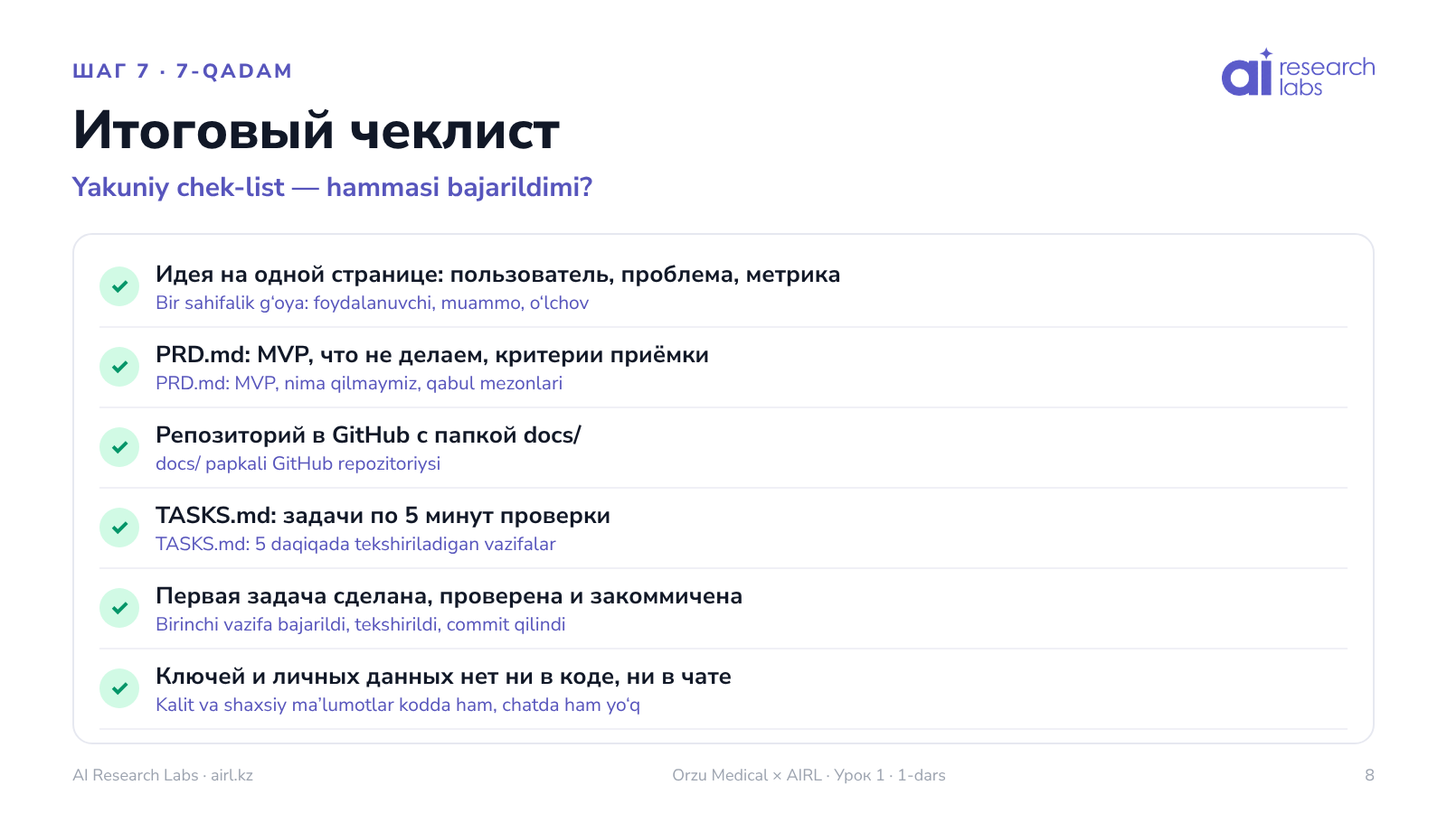
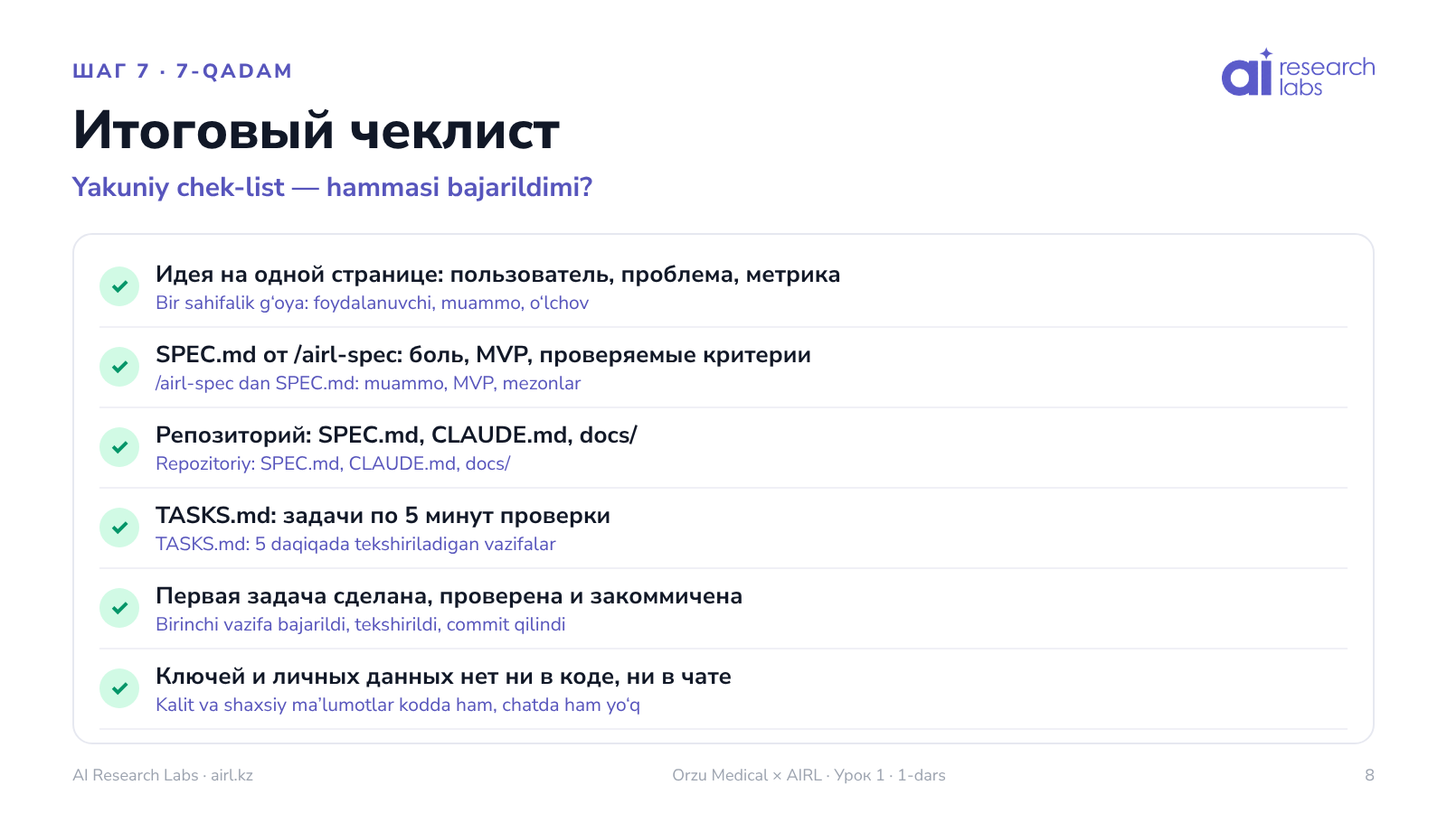
Orzu lesson 1: /airl-spec as the PRD tool; goal/how/result on every step
- Step 2 is built on /airl-spec: what it does and why it gives a real
  PRD (pain and its cost first, one question at a time with options,
  verifiable criteria, 'decided by default', special health data), how
  to install and run it, its real question format and a SPEC.md excerpt.
- Structure follows the AIRL skills: SPEC.md and ARCHITECTURE.md stay in
  the project root (later skills read them there), CLAUDE.md holds the
  agent rules, docs/ holds IDEA.md and TASKS.md. Slides updated.
- A lesson map at the start; every step states its goal, how and the
  resulting file. Accepted exercises show 'Ответ принят'.

Claude-Session: https://claude.ai/code/session_01R4xGES8mrcLgXzJP7i52hx

Changed region(s): [[0.0938, 0.4044, 0.5625, 0.4978], [0.0938, 0.5289, 0.4375, 0.5911]]

diff --git a/apps/api/src/db/workbook-orzu-week1.ts b/apps/api/src/db/workbook-orzu-week1.ts
@@ -1,8 +1,8 @@
 /**
  * ORZU MEDICAL × AIRL · Урок 1 «Строим мини-проект с ИИ за 7 шагов».
  *
- * Example project: a clinic request tracker. Each step = slide + plain-
- * language explanation + the real prompts and files (IDEA.md, PRD.md,
+ * Example project: a clinic request tracker. Each step = slide + goal / how /
+ * result + the real prompts and files (IDEA.md, SPEC.md from /airl-spec,
  * TASKS.md) + exercises. Every block is bilingual: Russian first, Uzbek
  * (Latin script) below.
  *
@@ -83,11 +83,16 @@ const btn = (label: string, href: string): SeedBlock => ({
 
 export const ORZU_WEEK1_WORKBOOK: SeedBlock[] = [
   // ═══════════════════════════════════════════════════════════════════
-  // СТАРТ · о чём урок, перевод, правила
+  // СТАРТ · о чём урок, карта урока, перевод, правила
   // ═══════════════════════════════════════════════════════════════════
   t(
-    'ORZU MEDICAL × AIRL · УРОК 1\nСтроим мини-проект с ИИ за 7 шагов\n\nСегодня на простом примере — **трекере заявок клиники** — пройдём весь путь: от идеи на одной странице до первой задачи, которую сделает ИИ-агент. Программировать уметь не нужно: мы показываем настоящие промпты и файлы, а вы повторяете за нами в своём проекте.\n\nПосле каждого шага — короткое упражнение. Пишете ответ, нажимаете «Отправить» — блок отмечается «Сдано ✓».',
-    'ORZU MEDICAL × AIRL · 1-DARS\nSunʼiy intellekt bilan mini-loyiha — 7 qadamda\n\nBugun oddiy misolda — **klinika arizalari trekeri** — butun yoʻlni bosib oʻtamiz: bir sahifalik gʻoyadan SI-agent bajaradigan birinchi vazifagacha. Dasturlashni bilish shart emas: biz haqiqiy promptlar va fayllarni koʻrsatamiz, siz esa oʻz loyihangizda takrorlaysiz.\n\nHar bir qadamdan keyin — qisqa mashq. Javob yozasiz, «Yuborish»ni bosasiz — blok «Topshirildi ✓» deb belgilanadi.',
+    'ORZU MEDICAL × AIRL · УРОК 1\nСтроим мини-проект с ИИ за 7 шагов\n\nНа простом примере — **трекере заявок клиники** — пройдём весь путь: от идеи на одной странице до первой задачи, которую сделает ИИ-агент. Программировать уметь не нужно: показываем настоящие промпты и файлы, вы повторяете их в своём проекте.\n\n**Главный инструмент урока — навык /airl-spec:** он превращает вашу задачу в настоящий PRD (файл SPEC.md), по которому дальше работает агент.',
+    'ORZU MEDICAL × AIRL · 1-DARS\nSunʼiy intellekt bilan mini-loyiha — 7 qadamda\n\nOddiy misolda — **klinika arizalari trekeri** — butun yoʻlni bosib oʻtamiz: bir sahifalik gʻoyadan SI-agent bajaradigan birinchi vazifagacha. Dasturlashni bilish shart emas: haqiqiy promptlar va fayllarni koʻrsatamiz, siz ularni oʻz loyihangizda takrorlaysiz.\n\n**Darsning asosiy vositasi — /airl-spec koʻnikmasi:** u vazifangizni haqiqiy PRD ga (SPEC.md fayli) aylantiradi, keyin agent shu fayl boʻyicha ishlaydi.',
+    'agenda',
+  ),
+  t(
+    'КАРТА УРОКА · что получится на каждом шаге\n1. **Идея на одну страницу** → docs/IDEA.md\n2. **Мини-PRD с /airl-spec** → SPEC.md и ARCHITECTURE.md\n3. **Подготовка проекта** → репозиторий GitHub, CLAUDE.md, папка docs/\n4. **План и маленькие задачи** → docs/TASKS.md\n5. **Первый цикл с агентом** → первая готовая функция и commit\n6. **Типичные ошибки** → как их не допустить\n7. **Итоговый чеклист** → всё ли готово к следующему уроку\n\n**Как сдавать упражнения:** напишите ответ и нажмите «Отправить». Выбор и оценка отправляются сразу при нажатии; в проверочных вопросах выберите вариант и нажмите «Проверить». Чеклист сдаётся, когда отмечены все пункты. Принятое упражнение отмечается зелёной галочкой **«Ответ принят»** — тренер видит ответ сразу.',
+    'DARS XARITASI · har bir qadamda nima chiqadi\n1. **Bir sahifalik gʻoya** → docs/IDEA.md\n2. **/airl-spec bilan mini-PRD** → SPEC.md va ARCHITECTURE.md\n3. **Loyihani tayyorlash** → GitHub repozitoriysi, CLAUDE.md, docs/ papkasi\n4. **Reja va kichik vazifalar** → docs/TASKS.md\n5. **Agent bilan birinchi sikl** → birinchi tayyor funksiya va commit\n6. **Koʻp uchraydigan xatolar** → ulardan qanday qochish\n7. **Yakuniy chek-list** → keyingi darsga hammasi tayyormi\n\n**Mashqlarni qanday topshirish:** javob yozing va «Yuborish»ni bosing. Tanlov va baho bosilganda darhol yuboriladi; tekshiruv savollarida variantni tanlab «Tekshirish»ni bosing. Chek-list barcha bandlar belgilanganda topshiriladi. Qabul qilingan mashq yashil belgi **«Javob qabul qilindi»** bilan belgilanadi — trener javobni darhol koʻradi.',
     'agenda',
   ),
   t(
@@ -101,8 +106,8 @@ export const ORZU_WEEK1_WORKBOOK: SeedBlock[] = [
   btn('Открыть Tilmoch · Tilmochni ochish', TILMOCH_URL),
   img('tilmoch-qr.png', 'QR-код Tilmoch · Tilmoch QR-kodi — tilmoch-eight.vercel.app'),
   t(
-    'КАК ПРОХОДИТ УРОК\n1. **Видеосвязь** подключается автоматически, когда её запускает преподаватель. Микрофон и камера выключены — включите, когда дадут слово. При прокрутке видео остаётся в углу экрана.\n2. **Вопросы** — во вкладке «Вопросы»: задайте свой и поддержите ▲ вопросы коллег.\n3. **Упражнения** — пишите ответ прямо здесь и нажимайте «Отправить».\n4. **Безопасность:** никогда не вставляйте в чат с ИИ пароли, ключи и данные пациентов.',
-    'DARS QANDAY OʻTADI\n1. **Videoaloqa** oʻqituvchi boshlaganda avtomatik ulanadi. Mikrofon va kamera oʻchiq — soʻz berilganda yoqing. Sahifani aylantirganda video ekran burchagida qoladi.\n2. **Savollar** — «Savollar» boʻlimida: oʻz savolingizni bering va hamkasblar savollariga ▲ ovoz bering.\n3. **Mashqlar** — javobni shu yerda yozing va «Yuborish»ni bosing.\n4. **Xavfsizlik:** SI chatiga hech qachon parollar, kalitlar va bemorlar maʼlumotlarini qoʻymang.',
+    'КАК ПРОХОДИТ УРОК\n1. **Видеосвязь** подключается автоматически, когда её запускает преподаватель. Микрофон и камера выключены — включите, когда дадут слово. При прокрутке видео остаётся в углу экрана.\n2. **Вопросы** — во вкладке «Вопросы»: задайте свой и поддержите ▲ вопросы коллег.\n3. **Безопасность:** никогда не вставляйте в чат с ИИ пароли, ключи и данные пациентов.',
+    'DARS QANDAY OʻTADI\n1. **Videoaloqa** oʻqituvchi boshlaganda avtomatik ulanadi. Mikrofon va kamera oʻchiq — soʻz berilganda yoqing. Sahifani aylantirganda video ekran burchagida qoladi.\n2. **Savollar** — «Savollar» boʻlimida: oʻz savolingizni bering va hamkasblar savollariga ▲ ovoz bering.\n3. **Xavfsizlik:** SI chatiga hech qachon parollar, kalitlar va bemorlar maʼlumotlarini qoʻymang.',
   ),
   img('step-0.png', 'Строим мини-проект с ИИ — 7 шагов · Sunʼiy intellekt bilan mini-loyiha — 7 qadam'),
 
@@ -111,20 +116,20 @@ export const ORZU_WEEK1_WORKBOOK: SeedBlock[] = [
   // ═══════════════════════════════════════════════════════════════════
   img('step-1.png', 'Шаг 1 · Идея на одну страницу · 1-qadam · Bir sahifalik gʻoya'),
   t(
-    'ШАГ 1 · ИДЕЯ НА ОДНУ СТРАНИЦУ\nПрежде чем просить ИИ что-то сделать, ответьте на три вопроса:\n• **Пользователь** — кто будет пользоваться? Конкретная роль, а не «все».\n• **Проблема** — что сейчас неудобно или теряется?\n• **Метрика успеха** — по какой цифре поймём, что стало лучше?\n\nЕсли ответ не помещается на одну страницу — идея слишком большая для первого проекта. Урежьте её.',
-    '1-QADAM · BIR SAHIFALIK GʻOYA\nSI dan biror narsa soʻrashdan oldin uchta savolga javob bering:\n• **Foydalanuvchi** — kim foydalanadi? «Hamma» emas, aniq rol.\n• **Muammo** — hozir nima noqulay yoki nima yoʻqoladi?\n• **Muvaffaqiyat oʻlchovi** — yaxshilanganini qaysi raqam bilan bilamiz?\n\nJavob bir sahifaga sigʻmasa — gʻoya birinchi loyiha uchun juda katta. Uni qisqartiring.',
+    'ШАГ 1 · ИДЕЯ НА ОДНУ СТРАНИЦУ\n**Цель:** понять, что именно мы строим и зачем, — до того как просить ИИ что-то делать.\n**Как:** отвечаем на три вопроса — **пользователь** (конкретная роль, а не «все»), **проблема** (что сейчас теряется или делается руками), **метрика успеха** (по какой цифре поймём, что стало лучше).\n**Результат шага:** файл docs/IDEA.md — не больше 15 строк. Не помещается на страницу — идея слишком большая для первого проекта, урежьте её.\n\nЭти же ответы понадобятся на шаге 2: /airl-spec начинает именно с них.',
+    '1-QADAM · BIR SAHIFALIK GʻOYA\n**Maqsad:** SI dan biror narsa soʻrashdan oldin aynan nima va nima uchun qurayotganimizni tushunish.\n**Qanday:** uchta savolga javob beramiz — **foydalanuvchi** («hamma» emas, aniq rol), **muammo** (hozir nima yoʻqoladi yoki qoʻlda qilinadi), **muvaffaqiyat oʻlchovi** (yaxshilanganini qaysi raqam bilan bilamiz).\n**Qadam natijasi:** docs/IDEA.md fayli — 15 qatordan oshmasin. Sahifaga sigʻmasa — gʻoya birinchi loyiha uchun juda katta, uni qisqartiring.\n\nShu javoblar 2-qadamda kerak boʻladi: /airl-spec aynan ulardan boshlaydi.',
   ),
   t(
     'ПРОМПТ · копируйте в чат с Claude\nПомоги мне описать идею мини-проекта на одну страницу. Задавай мне вопросы по одному, пока не узнаешь: кто пользователь, какую проблему решаем и по какой метрике поймём, что стало лучше. Потом собери ответ в файл docs/IDEA.md: заголовок, три раздела, не больше 15 строк. Пиши простым языком, без технических терминов.',
-    'PROMPT · Claude chatiga nusxalang\nMenga mini-loyiha gʻoyasini bir sahifada tasvirlashga yordam ber. Foydalanuvchi kimligini, qaysi muammoni hal qilishimizni va yaxshilanganini qaysi oʻlchov bilan bilishimizni aniqlamaguningizcha savollarni bittadan ber. Keyin javobni docs/IDEA.md fayliga yigʻ: sarlavha, uchta boʻlim, 15 qatordan oshmasin. Oddiy tilda, texnik atamalarsiz yoz.',
+    'PROMPT · Claude chatiga nusxalang\nMenga mini-loyiha gʻoyasini bir sahifada tasvirlashga yordam ber. Foydalanuvchi kimligini, qaysi muammoni hal qilishimizni va yaxshilanganini qaysi oʻlchov bilan bilishimizni aniqlamaguningcha savollarni bittadan ber. Keyin javobni docs/IDEA.md fayliga yigʻ: sarlavha, uchta boʻlim, 15 qatordan oshmasin. Oddiy tilda, texnik atamalarsiz yoz.',
   ),
   t(
     'ФАЙЛ · docs/IDEA.md — что получилось у нас\n# Трекер заявок клиники\nПользователь: администратор call-центра.\nПроблема: заявки приходят в WhatsApp, Instagram и по телефону, записываются в тетрадь и теряются.\nМетрика успеха: каждая заявка получает ответ за 15 минут; ни одна не потеряна.',
     'FAYL · docs/IDEA.md — bizda nima chiqdi\n# Klinika arizalari trekeri\nFoydalanuvchi: call-markaz administratori.\nMuammo: arizalar WhatsApp, Instagram va telefon orqali keladi, daftarga yoziladi va yoʻqoladi.\nMuvaffaqiyat oʻlchovi: har bir arizaga 15 daqiqada javob beriladi; birortasi ham yoʻqolmaydi.',
   ),
   ask(
-    'Упражнение 1.1 · Кто пользователь вашего мини-проекта?',
-    '1.1-mashq · Mini-loyihangiz foydalanuvchisi kim?',
+    'Упражнение 1.1 · Кто пользователь вашего мини-проекта? Конкретная роль',
+    '1.1-mashq · Mini-loyihangiz foydalanuvchisi kim? Aniq rol',
   ),
   ask(
     'Упражнение 1.2 · Какую проблему он решает? Одной-двумя фразами',
@@ -136,42 +141,62 @@ export const ORZU_WEEK1_WORKBOOK: SeedBlock[] = [
   ),
 
   // ═══════════════════════════════════════════════════════════════════
-  // ШАГ 2 · МИНИ-PRD ВМЕСТЕ С ИИ
+  // ШАГ 2 · МИНИ-PRD С /airl-spec
   // ═══════════════════════════════════════════════════════════════════
-  img('step-2.png', 'Шаг 2 · Мини-PRD вместе с ИИ · 2-qadam · SI bilan mini-PRD'),
+  img('step-2.png', 'Шаг 2 · Мини-PRD с /airl-spec · 2-qadam · /airl-spec bilan mini-PRD'),
   t(
-    'ШАГ 2 · МИНИ-PRD ВМЕСТЕ С ИИ\nPRD — это короткое техническое задание: что именно строим. В нём три части:\n• **MVP** — самый маленький набор функций, который уже полезен.\n• **Что НЕ делаем** — список, который защищает проект от разрастания.\n• **Критерии приёмки** — как проверить, что готово. Без них агент не знает, когда остановиться.\n\nИИ пишет черновик — вы вычёркиваете лишнее и решаете.',
-    '2-QADAM · SI BILAN MINI-PRD\nPRD — qisqa texnik topshiriq: aynan nimani quramiz. Unda uch qism bor:\n• **MVP** — allaqachon foydali boʻlgan eng kichik funksiyalar toʻplami.\n• **Nima QILMAYMIZ** — loyihani kengayib ketishdan saqlaydigan roʻyxat.\n• **Qabul qilish mezonlari** — tayyorligini qanday tekshirish. Ularsiz agent qachon toʻxtashni bilmaydi.\n\nSI qoralama yozadi — siz ortiqchasini oʻchirasiz va qaror qilasiz.',
+    'ШАГ 2 · МИНИ-PRD С /airl-spec\n**Цель:** получить настоящий PRD — документ, по которому продукт собирают в IT-командах. В AIRL он называется **SPEC.md**.\n**Как:** запускаем навык /airl-spec и отвечаем на его вопросы. Он ведёт разговор сам — нужно только честно отвечать.\n**Результат шага:** SPEC.md (PRD) и ARCHITECTURE.md (схема и технологии) в корне проекта.',
+    '2-QADAM · /airl-spec BILAN MINI-PRD\n**Maqsad:** haqiqiy PRD olish — IT-jamoalarda mahsulot shu hujjat boʻyicha yigʻiladi. AIRL da u **SPEC.md** deb ataladi.\n**Qanday:** /airl-spec koʻnikmasini ishga tushiramiz va uning savollariga javob beramiz. U suhbatni oʻzi olib boradi — faqat halol javob berish kerak.\n**Qadam natijasi:** loyiha ildizida SPEC.md (PRD) va ARCHITECTURE.md (sxema va texnologiyalar).',
   ),
   t(
-    'ПРОМПТ · копируйте в чат с Claude\nВот моя идея из docs/IDEA.md: [вставьте текст]. Напиши мини-PRD в файл docs/PRD.md. Разделы: 1) MVP — не больше 3 функций; 2) Что НЕ делаем в первой версии; 3) Критерии приёмки — проверяемые фразы вида «Пользователь может…»; 4) Правила для агента: делать одну задачу за раз, не добавлять функции вне MVP, не хранить ключи и пароли в коде. Пиши коротко и простым языком. Если чего-то не хватает — сначала спроси меня.',
-    'PROMPT · Claude chatiga nusxalang\nMana docs/IDEA.md dagi gʻoyam: [matnni qoʻying]. docs/PRD.md fayliga mini-PRD yoz. Boʻlimlar: 1) MVP — 3 tadan koʻp boʻlmagan funksiya; 2) Birinchi versiyada nima QILMAYMIZ; 3) Qabul qilish mezonlari — «Foydalanuvchi … qila oladi» koʻrinishidagi tekshiriladigan jumlalar; 4) Agent uchun qoidalar: bir vaqtda bitta vazifa, MVP dan tashqari funksiya qoʻshmaslik, kalit va parollarni kodda saqlamaslik. Qisqa va oddiy tilda yoz. Biror narsa yetishmasa — avval mendan soʻra.',
+    'ЧЕМ /airl-spec ЛУЧШЕ, ЧЕМ «НАПИШИ МНЕ ТЗ»\n• **Начинает с боли и её цены в цифрах**, а не с экранов: «сейчас я делаю X, и это стоит Y». Эта цифра — ваше «было» для Demo Day.\n• **Вопросы по одному**, к каждому варианты A–D и рекомендация. Отвечать можно одной буквой; «не знаю» — он возьмёт рекомендацию и скажет об этом.\n• **Не принимает размытые ответы** вроде «чтобы было удобно» — переспросит на примере.\n• **Критерии готовности проверяемые** действием или числом: не «удобный интерфейс», а «заявка создаётся за 30 секунд».\n• **Ничего не решает молча:** всё, что выбрал за вас, выписывает в раздел «Решено по умолчанию».\n• **Знает про закон и данные:** факт обращения в клинику — это особые данные о здоровье, и он сразу скажет, что это значит для проекта.\n• **SPEC.md читают следующие навыки** (/airl-dwh, /airl-pwa и другие) — объяснять задачу заново не придётся.\n• **Код не пишет** — только документы. Код будет на шаге 5.',
+    'NIMA UCHUN /airl-spec «MENGA TZ YOZ» DAN YAXSHIROQ\n• **Ekranlardan emas, muammo va uning raqamdagi narxidan boshlaydi:** «hozir men X qilaman va bu Y ga tushadi». Bu raqam — Demo Day uchun «oldin» holatingiz.\n• **Savollar bittadan**, har biriga A–D variantlar va tavsiya. Bitta harf bilan javob berish mumkin; «bilmayman» — u tavsiyani oladi va buni aytadi.\n• **«Qulay boʻlsin» kabi noaniq javoblarni qabul qilmaydi** — misol orqali qayta soʻraydi.\n• **Tayyorlik mezonlari tekshiriladigan** — harakat yoki raqam bilan: «qulay interfeys» emas, «ariza 30 soniyada yaratiladi».\n• **Hech narsani jimgina hal qilmaydi:** siz uchun tanlaganini «Standart boʻyicha hal qilindi» boʻlimiga yozadi.\n• **Qonun va maʼlumotlarni biladi:** klinikaga murojaat fakti — sogʻliq haqidagi maxsus maʼlumot, u buning loyiha uchun nimani anglatishini darhol aytadi.\n• **SPEC.md ni keyingi koʻnikmalar oʻqiydi** (/airl-dwh, /airl-pwa va boshqalar) — vazifani qayta tushuntirish kerak boʻlmaydi.\n• **Kod yozmaydi** — faqat hujjatlar. Kod 5-qadamda boʻladi.',
   ),
   t(
-    'ФАЙЛ · docs/PRD.md — что получилось у нас\n# PRD · Трекер заявок\n## MVP\n1. Форма «Новая заявка»: имя, телефон, источник.\n2. Список заявок со статусами: новая → в работе → записан / отказ.\n3. У каждой заявки есть ответственный.\n## Что НЕ делаем\nОплату, интеграцию с 1С, мобильное приложение, SMS.\n## Критерии приёмки\n• Администратор создаёт заявку меньше чем за 30 секунд.\n• Статус меняется в один клик.\n• Видно, кто отвечает за каждую заявку.\n## Правила для агента\nОдна задача за раз. Ничего вне MVP. Никаких ключей и паролей в коде.',
-    'FAYL · docs/PRD.md — bizda nima chiqdi\n# PRD · Arizalar trekeri\n## MVP\n1. «Yangi ariza» shakli: ism, telefon, manba.\n2. Holatli arizalar roʻyxati: yangi → ishda → yozildi / rad etildi.\n3. Har bir arizaning masʼul xodimi bor.\n## Nima QILMAYMIZ\nToʻlov, 1C bilan integratsiya, mobil ilova, SMS.\n## Qabul qilish mezonlari\n• Administrator arizani 30 soniyadan kamroq vaqtda yaratadi.\n• Holat bir bosishda oʻzgaradi.\n• Har bir ariza uchun kim masʼulligi koʻrinadi.\n## Agent uchun qoidalar\nBir vaqtda bitta vazifa. MVP dan tashqari hech narsa. Kodda kalit va parollar yoʻq.',
+    'КАК ЗАПУСТИТЬ /airl-spec\n1. Откройте в VS Code пустую папку проекта (например, tracker-zayavok).\n2. В панели Claude наберите /airl — появится список навыков AIRL. Списка нет — навыки не установлены: выполните команды ниже в терминале VS Code и перезагрузите окно.\n3. Запустите навык одной строкой с идеей из шага 1.',
+    '/airl-spec NI QANDAY ISHGA TUSHIRISH\n1. VS Code da loyihaning boʻsh papkasini oching (masalan, tracker-zayavok).\n2. Claude panelida /airl ni tering — AIRL koʻnikmalari roʻyxati chiqadi. Roʻyxat yoʻq — koʻnikmalar oʻrnatilmagan: quyidagi buyruqlarni VS Code terminalida bajaring va oynani qayta yuklang.\n3. Koʻnikmani 1-qadamdagi gʻoya bilan bitta qatorda ishga tushiring.',
+  ),
+  t(
+    'ФАЙЛ · установка навыков AIRL (один раз, в терминале VS Code)\nclaude plugin marketplace add aza9908/airl-skills\nclaude plugin install airl@airl-skills',
+    'FAYL · AIRL koʻnikmalarini oʻrnatish (bir marta, VS Code terminalida)\nclaude plugin marketplace add aza9908/airl-skills\nclaude plugin install airl@airl-skills',
+  ),
+  t(
+    'ПРОМПТ · команда в панели Claude\n/airl:airl-spec трекер заявок клиники: администратор call-центра теряет заявки из WhatsApp и Instagram',
+    'PROMPT · Claude panelidagi buyruq\n/airl:airl-spec klinika arizalari trekeri: call-markaz administratori WhatsApp va Instagramdan kelgan arizalarni yoʻqotadi',
+  ),
+  t(
+    'ФАЙЛ · так /airl-spec задаёт вопрос (настоящий формат)\nВопрос 2 из 11. Сколько стоит эта боль сейчас?\nA) ~5 потерянных заявок в неделю — рекомендую\nB) ~2 часа в день на разбор переписок\nC) Не знаю — давайте замерим за одну неделю\nD) Свой вариант\nРекомендую A: потерянные заявки — это деньги, их легко показать на Demo Day как «было → стало».',
+    'FAYL · /airl-spec savolni shunday beradi (haqiqiy format)\n2-savol, jami 11. Bu muammo hozir qanchaga tushadi?\nA) Haftasiga ~5 ta yoʻqolgan ariza — tavsiya qilaman\nB) Yozishmalarni koʻrib chiqishga kuniga ~2 soat\nC) Bilmayman — bir hafta davomida oʻlchaymiz\nD) Oʻz variantingiz\nA ni tavsiya qilaman: yoʻqolgan arizalar — bu pul, ularni Demo Day da «oldin → keyin» deb koʻrsatish oson.',
+  ),
+  t(
+    'ФАЙЛ · SPEC.md — фрагмент того, что получилось у нас\n# SPEC · Трекер заявок клиники\nАвтор: Азамат, руководитель отдела, Сервис и качество\n## Боль и её цена\nЗаявки из WhatsApp, Instagram и звонков теряются: ~5 в неделю.\n## Кто пользуется\nАдминистраторы call-центра; руководитель — только просмотр.\n## Главное действие\nПринять заявку и назначить ответственного — в 2 касания.\n## Первая версия\nФорма заявки · список со статусами · ответственный.\n## Не делаем сейчас\nОплату, интеграцию с 1С, мобильное приложение, SMS.\n## Критерии готовности\n• Администратор создаёт заявку меньше чем за 30 секунд.\n• Статус меняется в один клик.\n• Заявка без ответа дольше 15 минут подсвечена красным.\n## Данные\nФакт обращения в клинику — особые данные о здоровье: доступ только по логину, хранение по закону страны.\n## Решено по умолчанию\nВход по логину для своих сотрудников (рекомендация).',
+    'FAYL · SPEC.md — bizda chiqqan qismi\n# SPEC · Klinika arizalari trekeri\nMuallif: Azamat, boʻlim rahbari, Servis va sifat\n## Muammo va uning narxi\nWhatsApp, Instagram va qoʻngʻiroqlardan arizalar yoʻqoladi: haftasiga ~5 ta.\n## Kim foydalanadi\nCall-markaz administratorlari; rahbar — faqat koʻrish.\n## Asosiy harakat\nArizani qabul qilish va masʼulni belgilash — 2 bosishda.\n## Birinchi versiya\nAriza shakli · holatli roʻyxat · masʼul xodim.\n## Hozir qilmaymiz\nToʻlov, 1C bilan integratsiya, mobil ilova, SMS.\n## Tayyorlik mezonlari\n• Administrator arizani 30 soniyadan kamroq vaqtda yaratadi.\n• Holat bir bosishda oʻzgaradi.\n• 15 daqiqadan ortiq javobsiz ariza qizil rangda ajratiladi.\n## Maʼlumotlar\nKlinikaga murojaat fakti — sogʻliq haqidagi maxsus maʼlumot: kirish faqat login orqali, saqlash mamlakat qonuniga koʻra.\n## Standart boʻyicha hal qilindi\nOʻz xodimlari uchun login orqali kirish (tavsiya).',
+  ),
+  t(
+    'СОВЕТЫ\n• Отвечайте цифрами, даже примерными: «~5 заявок в неделю» лучше, чем «много».\n• В конце /airl-spec перескажет всё в 4–6 предложениях и спросит «Всё верно?» — прочитайте внимательно, это последний момент поправить.\n• Обязательно прочитайте раздел «Решено по умолчанию»: там то, что выбрали не вы.',
+    'MASLAHATLAR\n• Raqamlar bilan javob bering, taxminiy boʻlsa ham: «haftasiga ~5 ariza» «koʻp» dan yaxshiroq.\n• Oxirida /airl-spec hammasini 4–6 jumlada qayta aytib, «Hammasi toʻgʻrimi?» deb soʻraydi — diqqat bilan oʻqing, bu tuzatishning oxirgi imkoniyati.\n• «Standart boʻyicha hal qilindi» boʻlimini albatta oʻqing: u yerda siz tanlamagan narsalar bor.',
   ),
   quiz(
-    'Проверка · Что из этого НЕ должно попасть в MVP трекера заявок?',
-    'Tekshiruv · Bulardan qaysi biri arizalar trekeri MVP siga KIRMASLIGI kerak?',
+    'Проверка · Какой критерий готовности написан правильно — его можно проверить?',
+    'Tekshiruv · Qaysi tayyorlik mezoni toʻgʻri yozilgan — uni tekshirish mumkin?',
     [
-      opt('Форма новой заявки', 'Yangi ariza shakli'),
-      opt('Интеграция с 1С и оплатой', '1C va toʻlov bilan integratsiya'),
-      opt('Список заявок со статусами', 'Holatli arizalar roʻyxati'),
+      opt('Удобный и понятный интерфейс', 'Qulay va tushunarli interfeys'),
+      opt('Администратор создаёт заявку меньше чем за 30 секунд', 'Administrator arizani 30 soniyadan kamroq vaqtda yaratadi'),
+      opt('Система работает быстро', 'Tizim tez ishlaydi'),
     ],
     1,
   ),
   ask(
-    'Упражнение 2.1 · MVP вашего проекта: не больше 3 функций',
-    '2.1-mashq · Loyihangiz MVP si: 3 tadan koʻp boʻlmagan funksiya',
+    'Упражнение 2.1 · Боль и её цена из вашего SPEC.md: «сейчас я делаю X, и это стоит Y»',
+    '2.1-mashq · SPEC.md dagi muammo va uning narxi: «hozir men X qilaman va bu Y ga tushadi»',
   ),
   ask(
-    'Упражнение 2.2 · Что вы НЕ делаете в первой версии?',
-    '2.2-mashq · Birinchi versiyada nima QILMAYSIZ?',
+    'Упражнение 2.2 · Вставьте 3 критерия готовности из вашего SPEC.md',
+    '2.2-mashq · SPEC.md dan 3 ta tayyorlik mezonini qoʻying',
   ),
   ask(
-    'Упражнение 2.3 · 2–3 критерия приёмки в виде «Пользователь может…»',
-    '2.3-mashq · «Foydalanuvchi … qila oladi» koʻrinishidagi 2–3 ta qabul mezoni',
+    'Упражнение 2.3 · Что /airl-spec записал в «Решено по умолчанию»? Согласны ли вы?',
+    '2.3-mashq · /airl-spec «Standart boʻyicha hal qilindi» boʻlimiga nima yozdi? Rozimisiz?',
   ),
 
   // ═══════════════════════════════════════════════════════════════════
@@ -179,22 +204,23 @@ export const ORZU_WEEK1_WORKBOOK: SeedBlock[] = [
   // ═══════════════════════════════════════════════════════════════════
   img('step-3.png', 'Шаг 3 · Подготовка проекта · 3-qadam · Loyihani tayyorlash'),
   t(
-    'ШАГ 3 · ПОДГОТОВКА ПРОЕКТА\nПроект живёт в репозитории GitHub — это папка в интернете, которая помнит каждую версию.\n1. На github.com нажмите **New repository**, имя — например, tracker-zayavok, видимость — **Private**.\n2. Откройте репозиторий в VS Code и создайте папку **docs/**.\n3. Положите туда **IDEA.md** и **PRD.md** из шагов 1–2. PRD.md — это правила проекта: агент читает его перед каждой задачей.',
-    '3-QADAM · LOYIHANI TAYYORLASH\nLoyiha GitHub repozitoriysida yashaydi — bu internetdagi papka, u har bir versiyani eslab qoladi.\n1. github.com da **New repository** ni bosing, nomi — masalan, tracker-zayavok, koʻrinish — **Private**.\n2. Repozitoriyni VS Code da oching va **docs/** papkasini yarating.\n3. Unga 1–2-qadamlardagi **IDEA.md** va **PRD.md** ni qoʻying. PRD.md — loyiha qoidalari: agent uni har bir vazifadan oldin oʻqiydi.',
+    'ШАГ 3 · ПОДГОТОВКА ПРОЕКТА\n**Цель:** чтобы проект хранился надёжно и агент всегда работал по одним правилам.\n**Как:**\n1. На github.com нажмите **New repository**, имя — tracker-zayavok, видимость — **Private**.\n2. **SPEC.md и ARCHITECTURE.md оставьте в корне** — там их ищут все навыки AIRL.\n3. **CLAUDE.md** — правила и память проекта: агент читает его перед каждой задачей. /airl-spec уже записал в него состояние проекта.\n4. Остальная документация — в папке **docs/**: IDEA.md, позже TASKS.md.\n**Результат шага:** приватный репозиторий с этой структурой и первым commit.',
+    '3-QADAM · LOYIHANI TAYYORLASH\n**Maqsad:** loyiha ishonchli saqlansin va agent doim bir xil qoidalar boʻyicha ishlasin.\n**Qanday:**\n1. github.com da **New repository** ni bosing, nomi — tracker-zayavok, koʻrinish — **Private**.\n2. **SPEC.md va ARCHITECTURE.md ni ildizda qoldiring** — AIRL koʻnikmalari ularni oʻsha yerdan qidiradi.\n3. **CLAUDE.md** — loyiha qoidalari va xotirasi: agent uni har bir vazifadan oldin oʻqiydi. /airl-spec unga loyiha holatini allaqachon yozgan.\n4. Qolgan hujjatlar — **docs/** papkasida: IDEA.md, keyinroq TASKS.md.\n**Qadam natijasi:** shu tuzilmali yopiq repozitoriy va birinchi commit.',
   ),
   t(
-    'ПРОМПТ · для агента Claude Code в VS Code\nСоздай в этом репозитории папку docs/ и файлы docs/IDEA.md и docs/PRD.md с текстом, который я пришлю. Добавь README.md: одна строка о проекте и ссылка на docs/PRD.md. Перед любой следующей задачей всегда читай docs/PRD.md и следуй его правилам. Ничего больше не делай и покажи, какие файлы создал.',
-    'PROMPT · VS Code dagi Claude Code agenti uchun\nUshbu repozitoriyda docs/ papkasini va men yuboradigan matn bilan docs/IDEA.md hamda docs/PRD.md fayllarini yarat. README.md qoʻsh: loyiha haqida bitta qator va docs/PRD.md ga havola. Har qanday keyingi vazifadan oldin doim docs/PRD.md ni oʻqi va uning qoidalariga amal qil. Boshqa hech narsa qilma va qaysi fayllarni yaratganingni koʻrsat.',
+    'ПРОМПТ · для агента Claude Code в VS Code\nПодготовь проект к работе. SPEC.md и ARCHITECTURE.md оставь в корне. Создай папку docs/ и перенеси туда IDEA.md. Проверь CLAUDE.md: в нём должны быть правила — перед каждой задачей читать SPEC.md; делать одну задачу за раз; ничего вне первой версии; никаких паролей, ключей и данных пациентов в коде. Сделай commit «Документы проекта» и отправь в GitHub. Покажи итоговую структуру папок.',
+    'PROMPT · VS Code dagi Claude Code agenti uchun\nLoyihani ishga tayyorla. SPEC.md va ARCHITECTURE.md ni ildizda qoldir. docs/ papkasini yarat va IDEA.md ni unga koʻchir. CLAUDE.md ni tekshir: unda qoidalar boʻlsin — har bir vazifadan oldin SPEC.md ni oʻqish; bir vaqtda bitta vazifa; birinchi versiyadan tashqari hech narsa; kodda parol, kalit va bemor maʼlumotlari yoʻq. «Loyiha hujjatlari» commitini qil va GitHubga yubor. Yakuniy papka tuzilmasini koʻrsat.',
   ),
   checklist('Упражнение 3.1 · Отметьте, что готово', '3.1-mashq · Tayyorlarini belgilang', [
     opt('Создан приватный репозиторий в GitHub', 'GitHubda yopiq (private) repozitoriy yaratildi'),
-    opt('Есть папка docs/', 'docs/ papkasi bor'),
-    opt('В docs/ лежат IDEA.md и PRD.md', 'docs/ ichida IDEA.md va PRD.md bor'),
+    opt('SPEC.md и ARCHITECTURE.md лежат в корне', 'SPEC.md va ARCHITECTURE.md ildizda turibdi'),
+    opt('В CLAUDE.md есть правила для агента', 'CLAUDE.md da agent uchun qoidalar bor'),
+    opt('Есть папка docs/ с IDEA.md', 'IDEA.md bilan docs/ papkasi bor'),
     opt('В репозитории нет паролей, ключей и данных пациентов', 'Repozitoriyda parol, kalit va bemor maʼlumotlari yoʻq'),
   ]),
   ask(
-    'Упражнение 3.2 · Ссылка на ваш репозиторий (тренер получит доступ по приглашению)',
-    '3.2-mashq · Repozitoriyingiz havolasi (trener taklif orqali kirish oladi)',
+    'Упражнение 3.2 · Ссылка на ваш репозиторий (пригласите тренера в репозиторий, чтобы он его видел)',
+    '3.2-mashq · Repozitoriyingiz havolasi (trener koʻrishi uchun uni repozitoriyga taklif qiling)',
     'task',
   ),
 
@@ -203,12 +229,12 @@ export const ORZU_WEEK1_WORKBOOK: SeedBlock[] = [
   // ═══════════════════════════════════════════════════════════════════
   img('step-4.png', 'Шаг 4 · План и маленькие задачи · 4-qadam · Reja va kichik vazifalar'),
   t(
-    'ШАГ 4 · ПЛАН И МАЛЕНЬКИЕ ЗАДАЧИ\nАгент хорошо справляется с маленькими задачами и путается в больших. Правило: **одна задача = один результат, который вы проверите за 5 минут** — открыли, нажали, увидели.\n\nПлохо: «Сделай трекер заявок».\nХорошо: «Сделай форму новой заявки с полями имя, телефон, источник».',
-    '4-QADAM · REJA VA KICHIK VAZIFALAR\nAgent kichik vazifalarni yaxshi bajaradi, kattalarida esa adashadi. Qoida: **bitta vazifa = 5 daqiqada tekshiradigan bitta natija** — ochdingiz, bosdingiz, koʻrdingiz.\n\nYomon: «Arizalar trekerini qil».\nYaxshi: «Ism, telefon, manba maydonlari bilan yangi ariza shaklini qil».',
+    'ШАГ 4 · ПЛАН И МАЛЕНЬКИЕ ЗАДАЧИ\n**Цель:** разбить первую версию из SPEC.md на шаги, которые агент сделает без ошибок.\n**Как:** правило одно — **одна задача = один результат, который вы проверите за 5 минут**: открыли, нажали, увидели. Агент хорошо делает маленькие задачи и путается в больших.\nПлохо: «Сделай трекер заявок». Хорошо: «Сделай форму новой заявки с полями имя, телефон, источник».\n**Результат шага:** файл docs/TASKS.md — 5–7 задач с чекбоксами и способом проверки.',
+    '4-QADAM · REJA VA KICHIK VAZIFALAR\n**Maqsad:** SPEC.md dagi birinchi versiyani agent xatosiz bajaradigan qadamlarga boʻlish.\n**Qanday:** qoida bitta — **bitta vazifa = 5 daqiqada tekshiradigan bitta natija**: ochdingiz, bosdingiz, koʻrdingiz. Agent kichik vazifalarni yaxshi bajaradi, kattalarida adashadi.\nYomon: «Arizalar trekerini qil». Yaxshi: «Ism, telefon, manba maydonlari bilan yangi ariza shaklini qil».\n**Qadam natijasi:** docs/TASKS.md fayli — belgilar va tekshirish usuli bilan 5–7 ta vazifa.',
   ),
   t(
-    'ПРОМПТ · копируйте агенту\nПрочитай docs/PRD.md. Разбей MVP на 5–7 маленьких задач, каждую можно проверить за 5 минут без программирования. Для каждой напиши: что сделать и как я проверю результат. Сохрани список в docs/TASKS.md с чекбоксами «- [ ]». Код пока не пиши.',
-    'PROMPT · agentga nusxalang\ndocs/PRD.md ni oʻqi. MVP ni 5–7 ta kichik vazifaga boʻl, har birini dasturlashsiz 5 daqiqada tekshirish mumkin boʻlsin. Har biri uchun yoz: nima qilish kerak va natijani qanday tekshiraman. Roʻyxatni «- [ ]» belgilari bilan docs/TASKS.md ga saqla. Hozircha kod yozma.',
+    'ПРОМПТ · копируйте агенту\nПрочитай SPEC.md. Разбей первую версию на 5–7 маленьких задач, каждую можно проверить за 5 минут без программирования. Для каждой напиши: что сделать и как я проверю результат. Сохрани список в docs/TASKS.md с чекбоксами «- [ ]». Код пока не пиши.',
+    'PROMPT · agentga nusxalang\nSPEC.md ni oʻqi. Birinchi versiyani 5–7 ta kichik vazifaga boʻl, har birini dasturlashsiz 5 daqiqada tekshirish mumkin boʻlsin. Har biri uchun yoz: nima qilish kerak va natijani qanday tekshiraman. Roʻyxatni «- [ ]» belgilari bilan docs/TASKS.md ga saqla. Hozircha kod yozma.',
   ),
   t(
     'ФАЙЛ · docs/TASKS.md — что получилось у нас\n- [ ] 1. Форма «Новая заявка»: имя, телефон, источник. Проверка: заполнить и увидеть заявку в списке.\n- [ ] 2. Список заявок с фильтром по статусу. Проверка: переключить фильтр.\n- [ ] 3. Смена статуса в один клик. Проверка: нажать и увидеть новый статус.\n- [ ] 4. Поле «Ответственный». Проверка: выбрать сотрудника.\n- [ ] 5. Подсветка заявок без ответа дольше 15 минут. Проверка: создать заявку и подождать.',
@@ -234,12 +260,12 @@ export const ORZU_WEEK1_WORKBOOK: SeedBlock[] = [
   // ═══════════════════════════════════════════════════════════════════
   img('step-5.png', 'Шаг 5 · Первый цикл · 5-qadam · Birinchi sikl'),
   t(
-    'ШАГ 5 · ПЕРВЫЙ ЦИКЛ: ЗАДАЧА → ПРОВЕРКА → ФИКСАЦИЯ\n1. **Ставим задачу** — одну, из TASKS.md.\n2. **Агент делает** — читает PRD.md и пишет код. Ожидание можно пропустить, пока агент работает.\n3. **Проверяем сами** — открываем и пробуем так, как сделал бы пользователь.\n4. **Фиксируем** — commit в GitHub и галочка в TASKS.md. Теперь к этой версии всегда можно вернуться.\n\nНе работает? Опишите агенту, что видите, и повторите цикл. К следующей задаче — только после проверки.',
-    '5-QADAM · BIRINCHI SIKL: VAZIFA → TEKSHIRUV → SAQLASH\n1. **Vazifa beramiz** — bittasini, TASKS.md dan.\n2. **Agent bajaradi** — PRD.md ni oʻqiydi va kod yozadi. Agent ishlayotganda kutishni oʻtkazib yuborish mumkin.\n3. **Oʻzimiz tekshiramiz** — foydalanuvchi qanday qilsa, shunday ochib sinab koʻramiz.\n4. **Saqlaymiz** — GitHubga commit va TASKS.md da belgi. Endi bu versiyaga doim qaytish mumkin.\n\nIshlamayaptimi? Agentga nimani koʻrayotganingizni yozing va siklni takrorlang. Keyingi vazifaga — faqat tekshiruvdan keyin.',
+    'ШАГ 5 · ПЕРВЫЙ ЦИКЛ: ЗАДАЧА → ПРОВЕРКА → ФИКСАЦИЯ\n**Цель:** получить первую работающую функцию и научиться ритму, в котором дальше строится весь проект.\n**Как:**\n1. **Ставим задачу** — одну, из TASKS.md.\n2. **Агент делает** — читает SPEC.md и CLAUDE.md, пишет код.\n3. **Проверяем сами** — открываем и пробуем так, как сделал бы пользователь.\n4. **Фиксируем** — commit в GitHub и галочка в TASKS.md. К этой версии теперь всегда можно вернуться.\nНе работает — опишите агенту, что видите, и повторите цикл. К следующей задаче — только после проверки.\n**Результат шага:** задача 1 готова, проверена и закоммичена.',
+    '5-QADAM · BIRINCHI SIKL: VAZIFA → TEKSHIRUV → SAQLASH\n**Maqsad:** birinchi ishlaydigan funksiyani olish va butun loyiha keyin quriladigan ritmni oʻrganish.\n**Qanday:**\n1. **Vazifa beramiz** — bittasini, TASKS.md dan.\n2. **Agent bajaradi** — SPEC.md va CLAUDE.md ni oʻqiydi, kod yozadi.\n3. **Oʻzimiz tekshiramiz** — foydalanuvchi qanday qilsa, shunday ochib sinab koʻramiz.\n4. **Saqlaymiz** — GitHubga commit va TASKS.md da belgi. Endi bu versiyaga doim qaytish mumkin.\nIshlamasa — agentga nimani koʻrayotganingizni yozing va siklni takrorlang. Keyingi vazifaga — faqat tekshiruvdan keyin.\n**Qadam natijasi:** 1-vazifa tayyor, tekshirilgan va commit qilingan.',
   ),
   t(
-    'ПРОМПТ · задача для агента\nПрочитай docs/PRD.md и docs/TASKS.md. Сделай только задачу 1: форма «Новая заявка» с полями имя, телефон, источник. Ничего сверх этого. Когда закончишь — объясни простыми словами, как мне проверить результат, и отметь задачу в TASKS.md.',
-    'PROMPT · agent uchun vazifa\ndocs/PRD.md va docs/TASKS.md ni oʻqi. Faqat 1-vazifani bajar: ism, telefon, manba maydonlari bilan «Yangi ariza» shakli. Bundan ortiq hech narsa qilma. Tugatgach — natijani qanday tekshirishimni oddiy soʻzlar bilan tushuntir va vazifani TASKS.md da belgila.',
+    'ПРОМПТ · задача для агента\nПрочитай SPEC.md и docs/TASKS.md. Сделай только задачу 1: форма «Новая заявка» с полями имя, телефон, источник. Ничего сверх этого. Когда закончишь — объясни простыми словами, как мне проверить результат, и отметь задачу в docs/TASKS.md.',
+    'PROMPT · agent uchun vazifa\nSPEC.md va docs/TASKS.md ni oʻqi. Faqat 1-vazifani bajar: ism, telefon, manba maydonlari bilan «Yangi ariza» shakli. Bundan ortiq hech narsa qilma. Tugatgach — natijani qanday tekshirishimni oddiy soʻzlar bilan tushuntir va vazifani docs/TASKS.md da belgila.',
   ),
   t(
     'ПРОМПТ · если что-то не так\nЯ открыл форму и вижу: [опишите, что происходит]. Ожидал: [что должно быть]. Исправь только это, ничего другого не меняй.\n\nПРОМПТ · фиксация\nСделай commit с понятным сообщением на русском: что изменилось для пользователя. Отправь его в GitHub.',
@@ -265,8 +291,8 @@ export const ORZU_WEEK1_WORKBOOK: SeedBlock[] = [
   // ═══════════════════════════════════════════════════════════════════
   img('step-6.png', 'Шаг 6 · Типичные ошибки · 6-qadam · Koʻp uchraydigan xatolar'),
   t(
-    'ШАГ 6 · ТИПИЧНЫЕ ОШИБКИ ВАЙБКОДЕРА — И КАК ИХ ИЗБЕЖАТЬ\n• **Всё сразу одним промптом** → делите на задачи из TASKS.md.\n• **Нет PRD — агент додумывает** → начинайте каждую задачу с «Прочитай docs/PRD.md».\n• **Не проверил — уже следующая задача** → сначала проверка, потом новая задача.\n• **Нет коммитов** → commit после каждой рабочей задачи, тогда всегда можно откатиться.\n• **Ключи и пароли в чате с ИИ** → никогда; секреты хранятся отдельно, данные пациентов — тоже.\n• **«Сделай красиво»** → пишите проверяемо: «кнопка зелёная, текст 18px, статус меняется в один клик».',
-    '6-QADAM · VAYB-KODERNING KOʻP UCHRAYDIGAN XATOLARI — VA ULARDAN QANDAY QOCHISH\n• **Hammasini bitta promptda** → TASKS.md dagi vazifalarga boʻling.\n• **PRD yoʻq — agent oʻzicha toʻqiydi** → har bir vazifani «docs/PRD.md ni oʻqi» bilan boshlang.\n• **Tekshirmay — keyingi vazifaga** → avval tekshiruv, keyin yangi vazifa.\n• **Commit yoʻq** → har bir ishlaydigan vazifadan keyin commit, shunda doim orqaga qaytish mumkin.\n• **Kalit va parollar SI chatida** → hech qachon; sirlar alohida saqlanadi, bemorlar maʼlumotlari ham.\n• **«Chiroyli qil»** → tekshiriladigan qilib yozing: «tugma yashil, matn 18px, holat bir bosishda oʻzgaradi».',
+    'ШАГ 6 · ТИПИЧНЫЕ ОШИБКИ ВАЙБКОДЕРА — И КАК ИХ ИЗБЕЖАТЬ\n**Цель:** не наступать на грабли, на которые наступают почти все в первом проекте.\n• **Всё сразу одним промптом** → делите на задачи из TASKS.md.\n• **Нет SPEC.md — агент додумывает** → сначала /airl-spec, и каждую задачу начинайте с «Прочитай SPEC.md».\n• **Не проверил — уже следующая задача** → сначала проверка, потом новая задача.\n• **Нет коммитов** → commit после каждой рабочей задачи, тогда всегда можно откатиться.\n• **Ключи и пароли в чате с ИИ** → никогда; секреты хранятся отдельно, данные пациентов — тоже.\n• **«Сделай красиво»** → пишите проверяемо: «кнопка зелёная, текст 18px, статус меняется в один клик».',
+    '6-QADAM · VAYB-KODERNING KOʻP UCHRAYDIGAN XATOLARI — VA ULARDAN QANDAY QOCHISH\n**Maqsad:** birinchi loyihada deyarli hamma qiladigan xatolarni takrorlamaslik.\n• **Hammasini bitta promptda** → TASKS.md dagi vazifalarga boʻling.\n• **SPEC.md yoʻq — agent oʻzicha toʻqiydi** → avval /airl-spec, har bir vazifani «SPEC.md ni oʻqi» bilan boshlang.\n• **Tekshirmay — keyingi vazifaga** → avval tekshiruv, keyin yangi vazifa.\n• **Commit yoʻq** → har bir ishlaydigan vazifadan keyin commit, shunda doim orqaga qaytish mumkin.\n• **Kalit va parollar SI chatida** → hech qachon; sirlar alohida saqlanadi, bemorlar maʼlumotlari ham.\n• **«Chiroyli qil»** → tekshiriladigan qilib yozing: «tugma yashil, matn 18px, holat bir bosishda oʻzgaradi».',
   ),
   quiz(
     'Проверка · Агент сделал задачу. Что делаем дальше?',
@@ -284,7 +310,7 @@ export const ORZU_WEEK1_WORKBOOK: SeedBlock[] = [
     [
       opt('Пароль от 1С, чтобы агент подключился', 'Agent ulanishi uchun 1C paroli'),
       opt('Выгрузку с данными пациентов', 'Bemorlar maʼlumotlari bilan eksport'),
-      opt('Текст PRD.md и описание ошибки', 'PRD.md matni va xato tavsifi'),
+      opt('Текст SPEC.md и описание ошибки', 'SPEC.md matni va xato tavsifi'),
     ],
     2,
   ),
@@ -298,22 +324,26 @@ export const ORZU_WEEK1_WORKBOOK: SeedBlock[] = [
   // ШАГ 7 · ИТОГОВЫЙ ЧЕКЛИСТ + ЗАДАЧА НЕДЕЛИ
   // ═══════════════════════════════════════════════════════════════════
   img('step-7.png', 'Шаг 7 · Итоговый чеклист · 7-qadam · Yakuniy chek-list'),
-  checklist('Шаг 7 · Итоговый чеклист — отметьте всё, что готово', '7-qadam · Yakuniy chek-list — tayyorlarini belgilang', [
+  t(
+    'ШАГ 7 · ИТОГОВЫЙ ЧЕКЛИСТ\n**Цель:** убедиться, что проект готов к следующему уроку.\n**Как:** отметьте каждый пункт честно. Галочка «Ответ принят» появится, когда отмечены все шесть.\n**Результат шага:** проект, в котором агент работает по правилам, и первая готовая функция.',
+    '7-QADAM · YAKUNIY CHEK-LIST\n**Maqsad:** loyiha keyingi darsga tayyorligiga ishonch hosil qilish.\n**Qanday:** har bir bandni halol belgilang. «Javob qabul qilindi» belgisi oltitasi ham belgilanganda chiqadi.\n**Qadam natijasi:** agent qoidalar boʻyicha ishlaydigan loyiha va birinchi tayyor funksiya.',
+  ),
+  checklist('Итоговый чеклист — отметьте всё, что готово', 'Yakuniy chek-list — tayyorlarini belgilang', [
     opt('Идея на одной странице: пользователь, проблема, метрика', 'Bir sahifalik gʻoya: foydalanuvchi, muammo, oʻlchov'),
-    opt('PRD.md: MVP, что не делаем, критерии приёмки', 'PRD.md: MVP, nima qilmaymiz, qabul mezonlari'),
-    opt('Репозиторий в GitHub с папкой docs/', 'docs/ papkali GitHub repozitoriysi'),
-    opt('TASKS.md: задачи, каждая проверяется за 5 минут', 'TASKS.md: har biri 5 daqiqada tekshiriladigan vazifalar'),
+    opt('SPEC.md от /airl-spec: боль и цена, первая версия, проверяемые критерии', '/airl-spec dan SPEC.md: muammo va narxi, birinchi versiya, tekshiriladigan mezonlar'),
+    opt('Репозиторий в GitHub: SPEC.md, CLAUDE.md, docs/', 'GitHub repozitoriysi: SPEC.md, CLAUDE.md, docs/'),
+    opt('docs/TASKS.md: задачи, каждая проверяется за 5 минут', 'docs/TASKS.md: har biri 5 daqiqada tekshiriladigan vazifalar'),
     opt('Первая задача сделана, проверена и закоммичена', 'Birinchi vazifa bajarildi, tekshirildi va commit qilindi'),
     opt('Ключей и личных данных нет ни в коде, ни в чате', 'Kalit va shaxsiy maʼlumotlar kodda ham, chatda ham yoʻq'),
   ]),
   t(
-    'ЗАДАЧА НЕДЕЛИ\nДоведите свой мини-проект до конца шага 5: идея, PRD.md, репозиторий с docs/, TASKS.md и хотя бы одна задача, сделанная агентом, проверенная и закоммиченная. Пригласите тренера в репозиторий и загрузите PRD.md ниже. Тренер проверит и даст обратную связь в LMS.',
-    'HAFTA VAZIFASI\nMini-loyihangizni 5-qadam oxirigacha yetkazing: gʻoya, PRD.md, docs/ papkali repozitoriy, TASKS.md va agent bajargan, tekshirilgan va commit qilingan kamida bitta vazifa. Trenerni repozitoriyga taklif qiling va quyida PRD.md ni yuklang. Trener tekshiradi va LMS da fikr-mulohaza beradi.',
+    'ЗАДАЧА НЕДЕЛИ\nДоведите свой мини-проект до конца шага 5: идея, SPEC.md от /airl-spec, репозиторий с CLAUDE.md и docs/, TASKS.md и хотя бы одна задача, сделанная агентом, проверенная и закоммиченная. Пригласите тренера в репозиторий и загрузите SPEC.md ниже. Тренер проверит и даст обратную связь в LMS.',
+    'HAFTA VAZIFASI\nMini-loyihangizni 5-qadam oxirigacha yetkazing: gʻoya, /airl-spec dan SPEC.md, CLAUDE.md va docs/ bilan repozitoriy, TASKS.md va agent bajargan, tekshirilgan va commit qilingan kamida bitta vazifa. Trenerni repozitoriyga taklif qiling va quyida SPEC.md ni yuklang. Trener tekshiradi va LMS da fikr-mulohaza beradi.',
     'task',
   ),
   fileAsk(
-    'Загрузите ваш PRD.md (или PDF/DOCX)',
-    'PRD.md faylingizni yuklang (yoki PDF/DOCX)',
+    'Загрузите ваш SPEC.md (или PDF/DOCX)',
+    'SPEC.md faylingizni yuklang (yoki PDF/DOCX)',
   ),
   rate(
     'Насколько понятно, как построить свой мини-проект? (1 — непонятно, 5 — всё ясно)',
